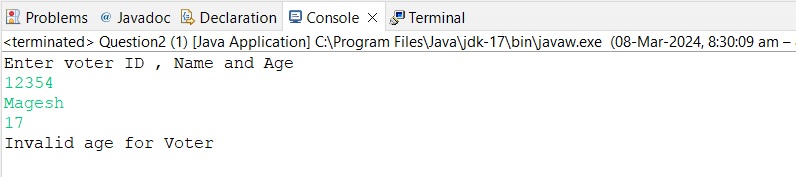
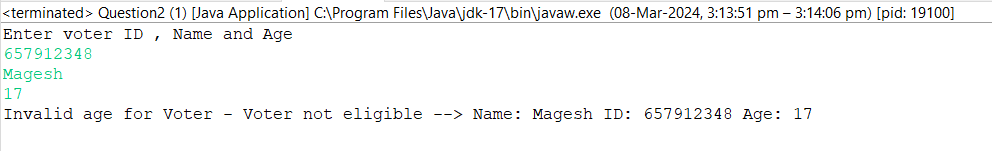
Task 4

Changed region(s): [[0.0, 0.1854, 1.0, 0.3974], [0.0, 0.0, 1.0, 0.1589], [0.0, 0.4238, 0.8442, 0.8477]]

diff --git a/src/com/taskfour/Question2.java b/src/com/taskfour/Question2.java
@@ -17,46 +17,44 @@ class Voter{
 	private String name;
 	private int age;
 	
-	public Voter(int voterID, String name, int age) {
+	public Voter(int voterID, String name, int age)throws UserDefinedException {
 		super();
 		this.voterID = voterID;
 		this.name = name;
-		this.age = age;
+		if (age>=18) {		
+			this.age = age;
+		}
+		else {
+			throw new UserDefinedException("Invalid age for Voter -"+" Voter not eligible -->" + " Name: " +name +" ID: " + voterID +" Age: "+age);
+		}
 	}
 	
-	public void voting()throws UserDefinedException{
-
-			if (age>=18) {				
-				System.out.println("Voter eligible : " + "Name -" +name +" ID" + voterID);
-			}
-			else {
-				throw new UserDefinedException("Invalid age for Voter");
-			}
-		}
+	public void display() {
+		
+		System.out.println ("Voter eligible : " + "Name -" +name +" ID" + voterID +"Age : "+age);
+		 
+	}
 }
 
-public class Question2 {
 
+public class Question2 {
+	
 	public static void main(String[] args) {
 
+		
 			Scanner userInput = new Scanner(System.in);
 			System.out.println("Enter voter ID , Name and Age");
 			int voterId=userInput.nextInt();
 			String name = userInput.next();
 			int age = userInput.nextInt();
-			
-			//object
-			Voter vote = new Voter(voterId , name ,age );
-			
 			try {
-				
-				vote.voting();
-				
+			//object	
+			Voter vote = new Voter(voterId , name ,age );
+			vote.display();
+			
 			} catch (UserDefinedException e) {
-				
 				System.out.println(e.getMessage());
 			}
-			
 			userInput.close();
 	}
 }
@@ -64,12 +62,10 @@ public class Question2 {
 /*
  ----------------------------output--------------------------------------
  
- Enter voter ID , Name and Age
-12354
+Enter voter ID , Name and Age
+657912348
 Magesh
 17
-Invalid age for Voter
-
+Invalid age for Voter - Voter not eligible --> Name: Magesh ID: 657912348 Age: 17
 
 */
-
